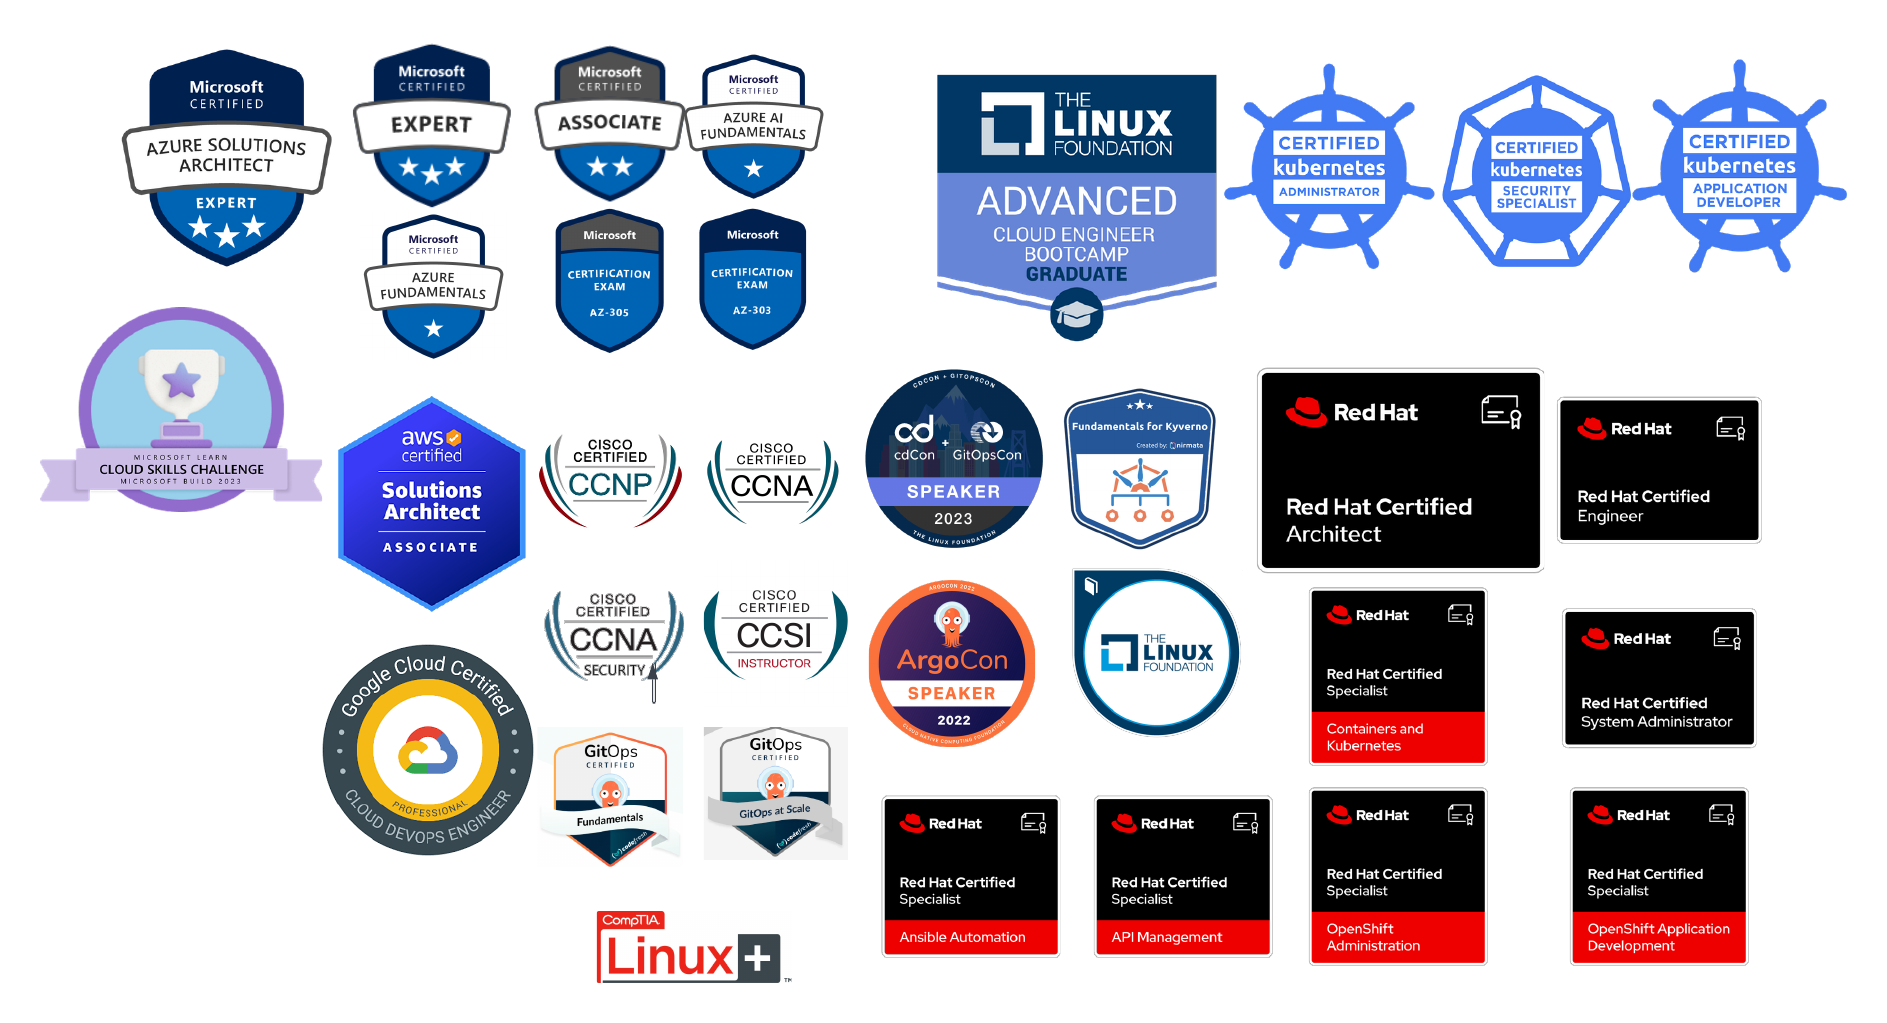
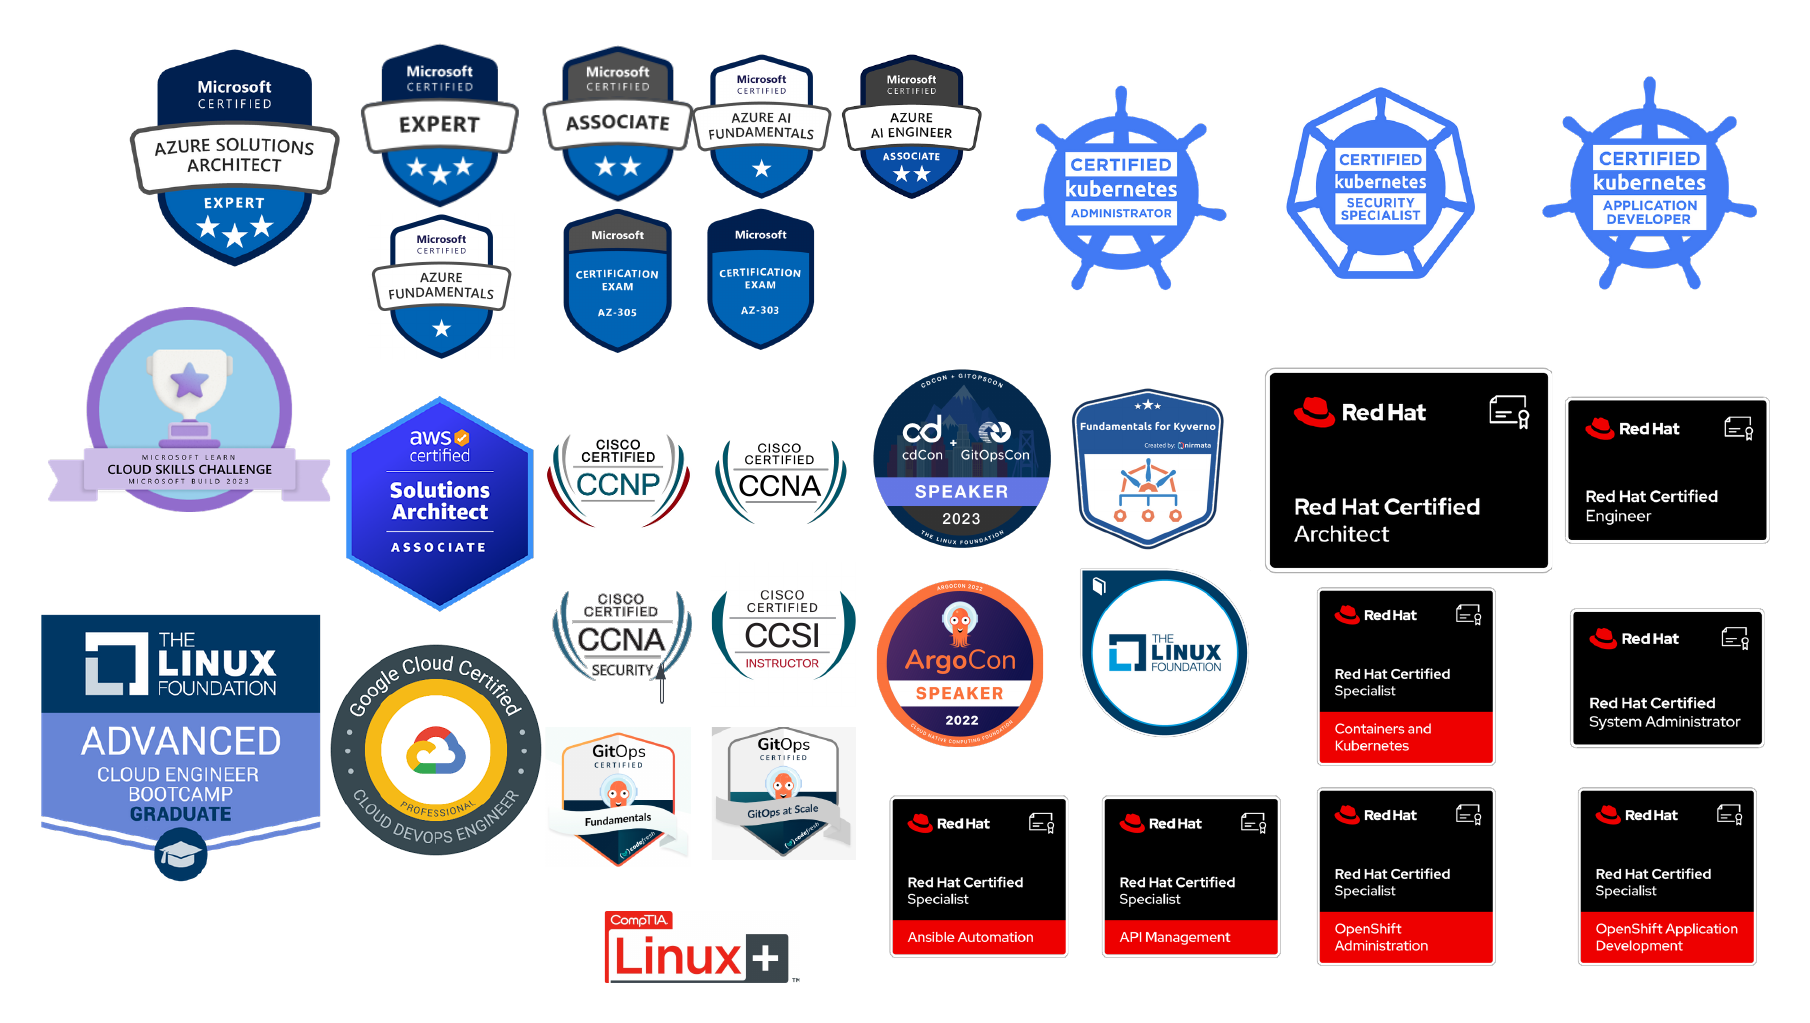
added talk and ai cert

diff --git a/_pages/about.md b/_pages/about.md
@@ -59,6 +59,7 @@ I'm always seeking new learning opportunities, and I genuinely believe that IT c
 
 * [Microsoft Azure Solutions Architect Expert](https://learn.microsoft.com/api/credentials/share/en-us/rcarrata/8F21BDDF42EEC586?sharingId=5E140EA546C68A03)
 * [Designing Microsoft Azure Infrastructure Solutions Exam - AZ305](https://www.credly.com/badges/14593173-15ed-404e-b500-6be8497d7813/public_url)
+* [Microsoft Certified: Azure AI Engineer Associate](https://learn.microsoft.com/api/credentials/share/en-us/rcarrata/46A8F50D28AA7E35?sharingId=5E140EA546C68A03)
 * [Microsoft Azure Network Engineer Associate](https://learn.microsoft.com/api/credentials/share/en-us/rcarrata/F0402BBC8975FAA5?sharingId=5E140EA546C68A03)
 * [Microsoft Azure Architect Technologies Exam - AZ303](https://www.credly.com/badges/6f4992ca-2a7b-458b-8d8d-6b2b3a78b567/public_url)
 * [Azure AI Fundamentals Certification - AI900](https://learn.microsoft.com/api/credentials/share/en-us/rcarrata/925DA7BA0C99BF39?sharingId=5E140EA546C68A03)

diff --git a/_pages/events.md b/_pages/events.md
@@ -9,6 +9,7 @@ author_profile: true
 
 I greatly enjoy the opportunity to speak at conferences and events. These gatherings provide an excellent platform to share my knowledge with other IT professionals and establish meaningful connections with them.
 
+* [DevConf.CZ 2024 - Managing MLOps at scale in OpenShift/Kubernetes](https://pretalx.com/devconf-cz-2024/talk/DKFUR8/)
 * [cdCon and GitOpsCon 2023 - Managing GitOps deployments in multi-cluster production environments](https://youtu.be/deiTf2Zw_FU?list=PLj6h78yzYM2M3-reG8FBlsE5s7P_UOvl4&t=507)
 * [Red Hat Summit Connect Iberia 2023 - Connecting your productive applications and microservices at scale in a MultiCloud and MultiRegion environments session](https://github.com/rcarrata/rh-summitconnect-iberia-23)
 * [DevConf 2023 Keynote - Open Source Services Keynote](https://youtu.be/WDg2GEBiwLE?t=903)
